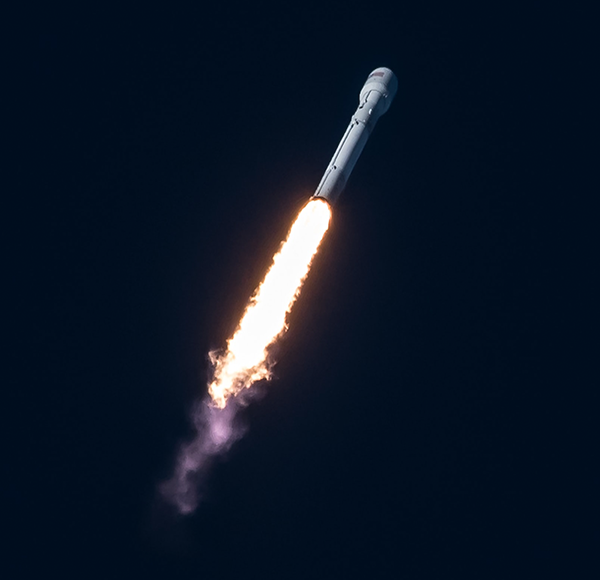
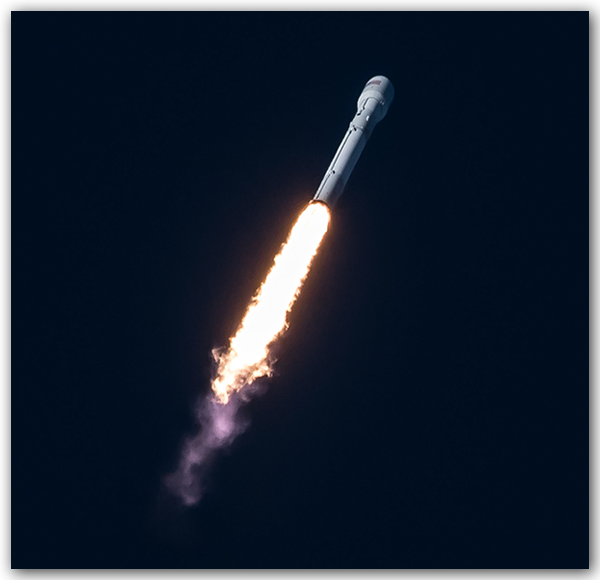
Updated with new background image
Got rid of video background and added a new edited fixed background. Changed color palette as well.

diff --git a/index.html b/index.html
@@ -31,16 +31,13 @@
 
 <body>
 
-  <video src="4K-Galaxy-Loop-by-AnimoplexCC1.mp4" loop mute autoplay playsinline></video>
   
-  <video id="myBGvid" autoplay muted loop>
-    <source src="https://github.com/austinBernard/Personal-Portfolio/raw/master/4K-Galaxy-Loop-by-AnimoplexCC1.mp4" type="video/mp4">
-  </video>
-  
+  <!-- <video src="4K-Galaxy-Loop-by-AnimoplexCC1.mp4" loop mute autoplay playsinline></video>
+
   <video id="myBGvid" autoplay muted loop>
     <source src="https://media.githubusercontent.com/media/austinBernard/Personal-Portfolio/master/4K-Galaxy-Loop-by-AnimoplexCC1.mp4" type="video/mp4">
-  </video>
- 
+  </video> -->
+       
 
   <!-- ======= Header ======= -->
   <header id="header">
@@ -183,49 +180,49 @@
       <div class="row">
         <div class="col-lg-3 col-md-4">
           <div class="icon-box">
-            <i class="bi bi-git" style="color: #c405ab;"></i>
+            <i class="bi bi-git" style="color: #2ee4eb;"></i>
             <h3>Git</h3>
           </div>
         </div>
         <div class="col-lg-3 col-md-4 mt-4 mt-md-0">
           <div class="icon-box">
-            <i class="bi bi-moon-fill" style="color: #c405ab;"></i>
+            <i class="bi bi-moon-fill" style="color: #2ee4eb;"></i>
             <h3>MATLAB</h3>
           </div>
         </div>
         <div class="col-lg-3 col-md-4 mt-4 mt-md-0">
           <div class="icon-box">
-            <i class="bi bi-hurricane" style="color: #c405ab;"></i>
+            <i class="bi bi-hurricane" style="color: #2ee4eb;"></i>
             <h3>Visual Studio Code</h3>
           </div>
         </div>
         <div class="col-lg-3 col-md-4 mt-4 mt-lg-0">
           <div class="icon-box">
-            <i class="bi bi-globe" style="color: #c405ab;"></i>
+            <i class="bi bi-globe" style="color: #2ee4eb;"></i>
             <h3>Arduino IDE</h3>
           </div>
         </div>
         <div class="col-lg-3 col-md-4 mt-4">
           <div class="icon-box">
-            <i class="ri-database-2-line" style="color: #c405ab;"></i>
+            <i class="ri-database-2-line" style="color: #2ee4eb;"></i>
             <h3>MySQL</h3>
           </div>
         </div>
         <div class="col-lg-3 col-md-4 mt-4">
           <div class="icon-box">
-            <i class="ri-database-2-line" style="color: #c405ab;"></i>
+            <i class="ri-database-2-line" style="color: #2ee4eb;"></i>
             <h3>Oracle 8.x/9.x</h3>
           </div>
         </div>
         <div class="col-lg-3 col-md-4 mt-4">
           <div class="icon-box">
-            <i class="ri-gradienter-line" style="color: #c405ab;"></i>
+            <i class="ri-gradienter-line" style="color: #2ee4eb;"></i>
             <h3>Flask</h3>
           </div>
         </div>
         <div class="col-lg-3 col-md-4 mt-4">
           <div class="icon-box">
-            <i class="bi bi-fire" style="color: #c405ab;"></i>
+            <i class="bi bi-fire" style="color: #2ee4eb;"></i>
             <h3>MVC</h3>
           </div>
         </div>
@@ -249,43 +246,43 @@
       <div class="row">
         <div class="col-lg-3 col-md-4">
           <div class="icon-box">
-            <i class="bi bi-phone" style="color: #c405ab;"></i>
+            <i class="bi bi-phone" style="color: #2ee4eb;"></i>
             <h3>iOS Development</h3>
           </div>
         </div>
         <div class="col-lg-3 col-md-4 mt-4 mt-md-0">
           <div class="icon-box">
-            <i class="bi bi-android2" style="color: #c405ab;"></i>
+            <i class="bi bi-android2" style="color: #2ee4eb;"></i>
             <h3>Mobile Engineering</h3>
           </div>
         </div>
         <div class="col-lg-3 col-md-4 mt-4 mt-md-0">
           <div class="icon-box">
-            <i class="bi bi-robot" style="color: #c405ab;"></i>
+            <i class="bi bi-robot" style="color: #2ee4eb;"></i>
             <h3>AI</h3>
           </div>
         </div>
         <div class="col-lg-3 col-md-4 mt-4 mt-lg-0">
           <div class="icon-box">
-            <i class="bi bi-globe" style="color: #c405ab;"></i>
+            <i class="bi bi-globe" style="color: #2ee4eb;"></i>
             <h3>Automation</h3>
           </div>
         </div>
         <div class="col-lg-3 col-md-4 mt-4">
           <div class="icon-box">
-            <i class="bi bi-chevron-double-right" style="color: #c405ab;"></i>
+            <i class="bi bi-chevron-double-right" style="color: #2ee4eb;"></i>
             <h3>Baseball</h3>
           </div>
         </div>
         <div class="col-lg-3 col-md-4 mt-4">
           <div class="icon-box">
-            <i class="bi bi-chevron-double-right" style="color: #c405ab;"></i>
+            <i class="bi bi-chevron-double-right" style="color: #2ee4eb;"></i>
             <h3>Working Out</h3>
           </div>
         </div>
         <div class="col-lg-3 col-md-4 mt-4">
           <div class="icon-box">
-            <i class="bi bi-chevron-double-right" style="color: #c405ab;"></i>
+            <i class="bi bi-chevron-double-right" style="color: #2ee4eb;"></i>
             <h3>Programming</h3>
           </div>
         </div>

diff --git a/assets/css/style.css b/assets/css/style.css
@@ -1,9 +1,9 @@
 /* Color Palette */
 :root {
-  --main-bg-color:#100720;
+  --main-bg-color:#02012b;
   --secondary-color:#31087B;
-  --third-color:#bb057e;
-  --fourth-color:#05c46b;
+  --third-color:#2ee4eb;
+  --fourth-color:#22d0e7;
 }
 
 
@@ -38,7 +38,7 @@ body {
 body::before {
   content: "";
   position: fixed;
-  background: #040404 top right no-repeat;
+  background: url("../img/space-background-edit.png") top right no-repeat;
   background-size: cover;
   left: 0;
   right: 0;
@@ -59,7 +59,7 @@ a {
 }
 
 a:hover {
-  color: #51f09b;
+  color: #22eaf1;
   text-decoration: none;
 }
 
@@ -87,15 +87,15 @@ button:before {
   content: "";
   background: linear-gradient(
     45deg,
-    #762ffa,
-    #190246,
-    #31087B,
-    #4d2a8a,
-    #31087B,
-    #251442,
-    #513e72,
-    #2c105e,
-    #4e15b6
+    #381dd3,
+    #021268,
+    #011570,
+    #442d97,
+    #3c30ee,
+    #0f032b,
+    #1e7de9,
+    #1c105e,
+    #0f0d8d
   );
   position: absolute;
   top: -2px;
@@ -129,7 +129,7 @@ button:after {
   position: absolute;
   width: 100%;
   height: 100%;
-  background:linear-gradient(to bottom, #530686 5%, #14011f 100%);
+  background:linear-gradient(to bottom, #2605b9 5%, #0f013d 100%);
   left: 0;
   top: 0;
   border-radius: 10px;
@@ -489,7 +489,7 @@ section .container {
   margin: 0 0 20px 0;
   letter-spacing: 2px;
   text-transform: uppercase;
-  color: #aaaaaa;
+  color: #cacaca;
   font-family: "Poppins", sans-serif;
 }
 
@@ -498,7 +498,7 @@ section .container {
   width: 120px;
   height: 1px;
   display: inline-block;
-  background: #4ceb95;
+  background: var(--fourth-color);
   margin: 4px 10px;
 }
 
@@ -934,7 +934,7 @@ section .container {
 }
 
 .portfolio .portfolio-wrap .portfolio-links a:hover {
-  color: #63eda3;
+  color: var(--fourth-color);
 }
 
 .portfolio .portfolio-wrap:hover::before {
@@ -964,7 +964,7 @@ section .container {
 --------------------------------------------------------------*/
 .portfolio-details {
   padding-top: 40px;
-  background-image: linear-gradient(to right top, #1d044e, #27065f, #320871, #3e0b83, #4a0d95, #5117a3, #5820b2, #5e29c1, #5f38d0, #6045de, #6052ed, #5f5ffb);;
+  background-image: linear-gradient(to left bottom, #1bb7c6, #00a5be, #0092b3, #0080a7, #006e99, #006293, #00568d, #004a85, #003f84, #003381, #00267c, #031776);
   opacity: .8;
   position: fixed;
   left: 0;
@@ -1061,7 +1061,7 @@ section .container {
 
 .contact .info-box h3 {
   font-size: 20px;
-  color: rgba(255, 255, 255, 0.5);
+  color: rgba(255, 255, 255, 0.747);
   font-weight: 700;
   margin: 10px 0 8px 68px;
 }
